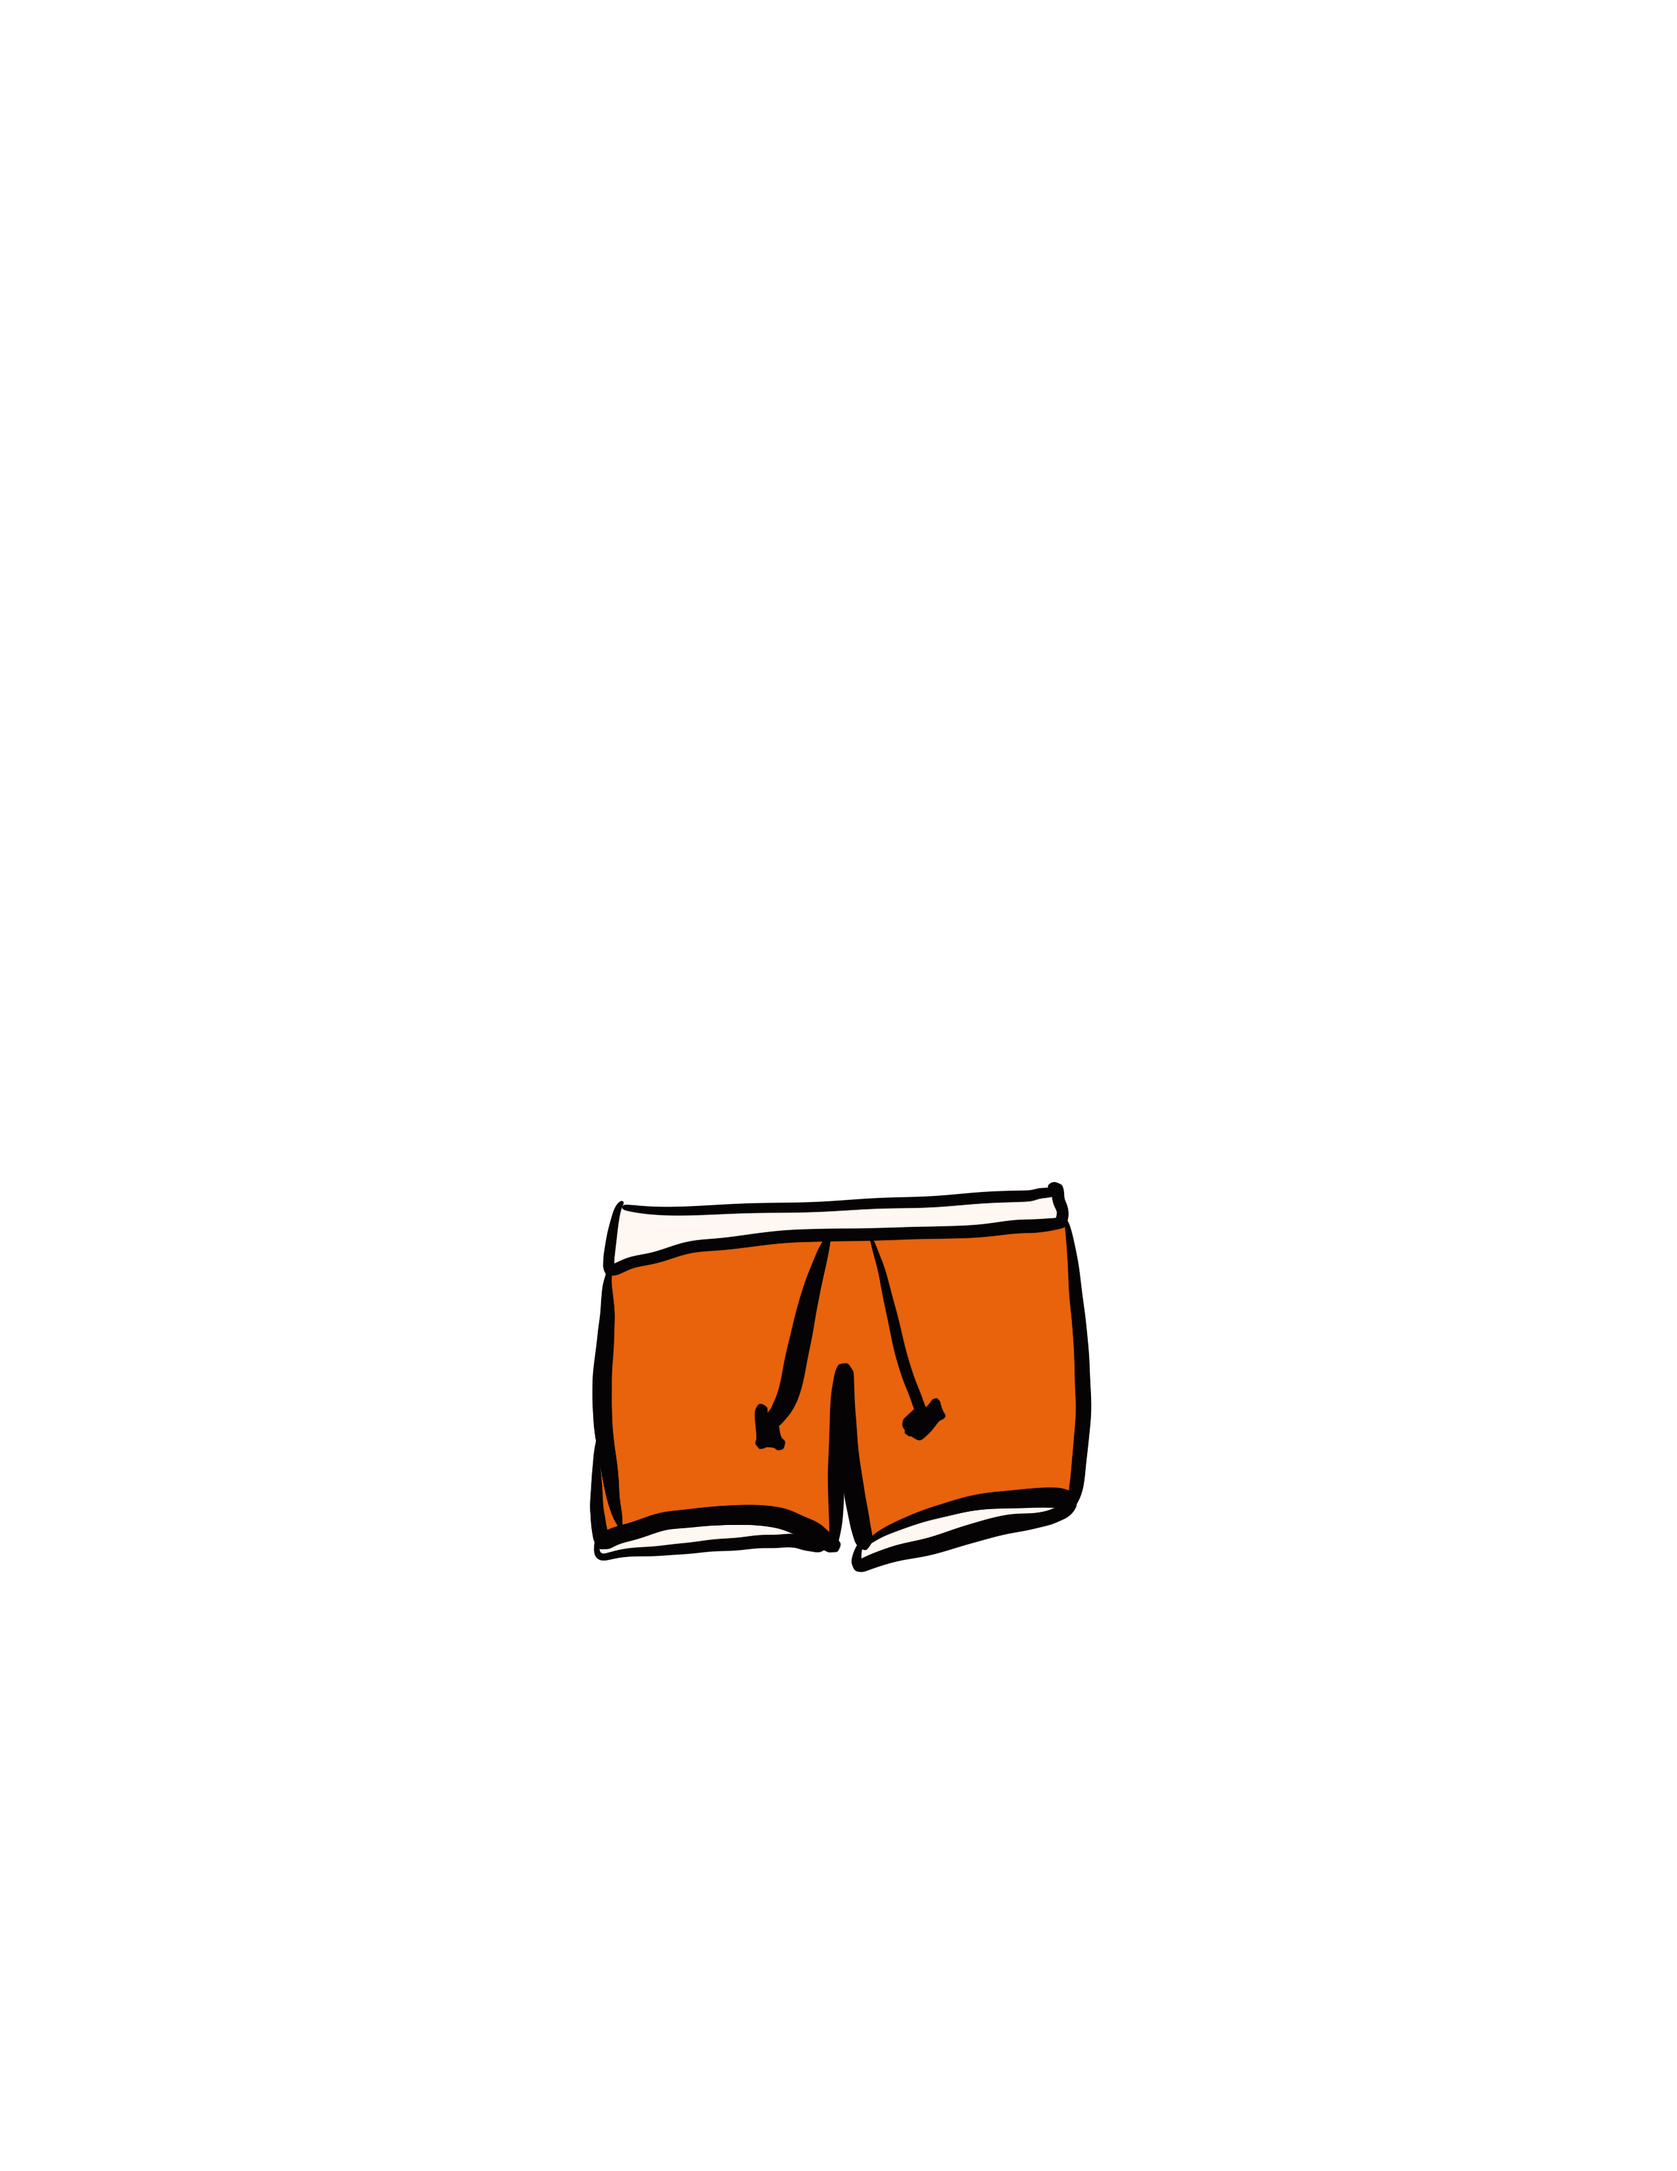
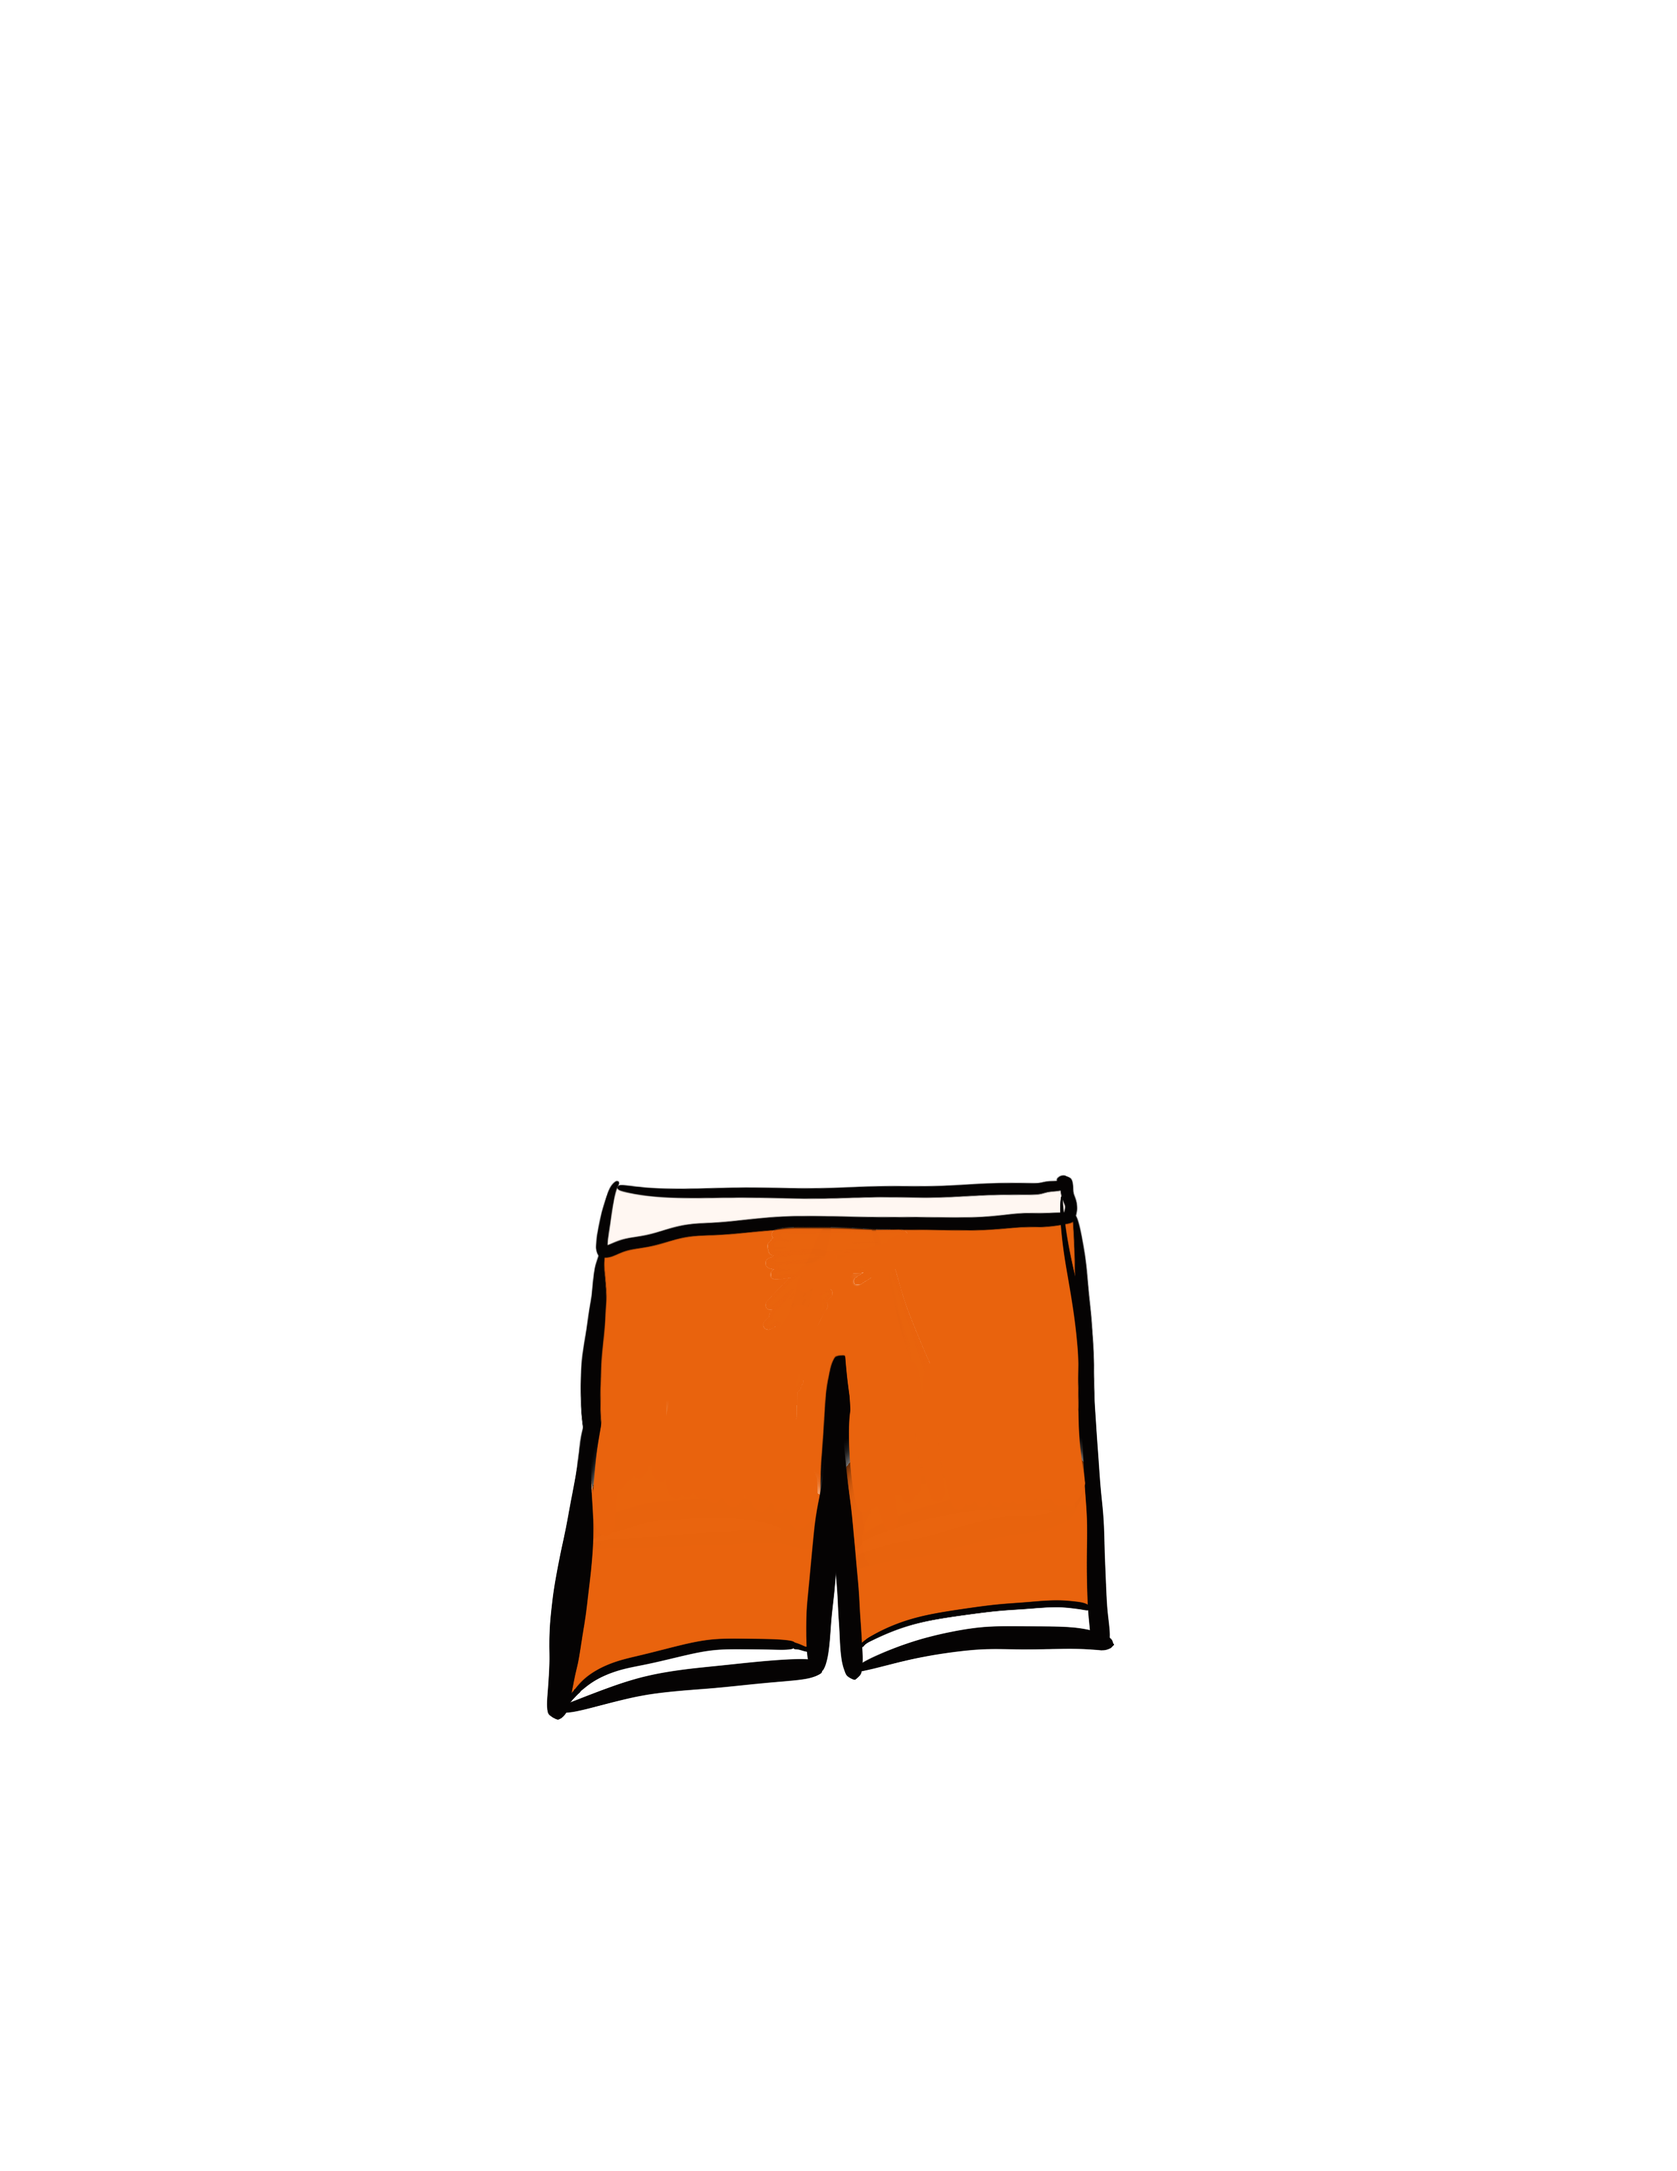
Implement the usability-testing improvement: redraw lower-warm
Replaced the swim-trunks-style warm-weather shorts with plain athletic
shorts (no drawstring), addressing a peer tester's finding that the
app "only gave her male outfits." Verified the new piece renders and
aligns correctly on the character locally. Old version kept as
lower-warm-old.png for reference, not used by the app. Updated
plan.md's and spec.md's revision records.

Changed region(s): [[0.3098, 0.5306, 0.6816, 0.8115]]

diff --git a/spec.md b/spec.md
@@ -198,6 +198,7 @@ After implementation or testing, record requirement changes and the evidence tha
 - **2026-10-12 (same day, after testing the built Main screen):** Fully random selection looked wrong in practice — a puffer coat (the "cold" upper piece) could appear on a 95°F day, since the fix above dropped temperature-plausibility entirely. Refined to overlapping eligible-temperature ranges per piece (cold below 60°F, mild 45-85°F, warm above 70°F): random choice happens only among pieces eligible at the day's feels-like temperature, which keeps the art always plausible while still giving variety whenever the temperature falls in an overlap zone. Updated R9 and the Recommendation state section's outfit-selection rule accordingly.
 - **2026-10-12 (same day, found via manual testing with ZIP 80016):** R4's original Open-Meteo-only geocoding (decided during planning) failed on a real ZIP — Open-Meteo's `country=US` filter isn't actually reliable for raw ZIP queries, matching "80016" against a French postal code instead of Aurora, CO, despite working fine for city names. The planning-phase verification only tested one ZIP (78701) and happened to succeed, which masked this. Fixed by routing 5-digit input to Zippopotam.us (free, no key, CORS-verified, purpose-built for ZIP lookups) and city names to Open-Meteo. Updated R4 accordingly.
 - **2026-10-12 (building the Information screen):** `research.md`'s Artwork approach and `spec.md`'s original Assets table planned weather/reminder icons as a licensed CC BY icon pack (e.g. Font Awesome), with only the character/outfit art as original. In practice, the Developer hand-drew all 18 assets, including the weather and reminder icons, in a consistent style. Updated the Assets table and R14 to credit everything as original Developer artwork with no third-party licenses involved.
+- **2026-10-12 (usability-testing improvement):** Three peer sessions surfaced a finding (`plan.md`'s Usability testing section): one tester said the app "only gave her male outfits." Investigated which asset actually caused this before redrawing anything — the base character body has no hair or facial features at all, so the likely source was `lower-warm.png`, a swim-trunks/boxer-short style with a drawstring that reads specifically as men's swimwear. Redrew it as plain athletic shorts with no drawstring, same canvas/alignment. Verified it renders correctly layered on the character locally. The old version is kept as `lower-warm-old.png` for reference, not used by the app.
 
 ## Approval
 

diff --git a/plan.md b/plan.md
@@ -78,9 +78,9 @@ During implementation, follow the approved plan in working checkpoints and keep 
 - [x] Verify that returning to a previously selected date shows the same variations
 - [x] Test the deployed app, independently of the local version, on a real phone and a laptop, including both screens, accessibility, and one-handed controls — real phone test (comfortable one-handed; the info icon is a reachability stretch, but it's a secondary/curiosity control, not a primary one, so left as-is pending peer feedback), VoiceOver pass (found and fixed a real bug: clicking a date chip rebuilt every chip including the focused one, breaking its accessible name), and a Lighthouse accessibility audit scoring 100.
 - [x] Prepare the usability test below
-- [ ] Test with three peers and record each session
-- [ ] Add the chosen improvement to this checklist, and update `spec.md` if the intended result changes
-- [ ] Implement, verify, and redeploy at least one meaningful revision
+- [x] Test with three peers and record each session
+- [x] Add the chosen improvement to this checklist, and update `spec.md` if the intended result changes
+- [x] Implement, verify, and redeploy at least one meaningful revision (redrew `lower-warm.png`, verified aligned/rendering correctly locally; redeploy pending)
 
 ### Deliver
 
